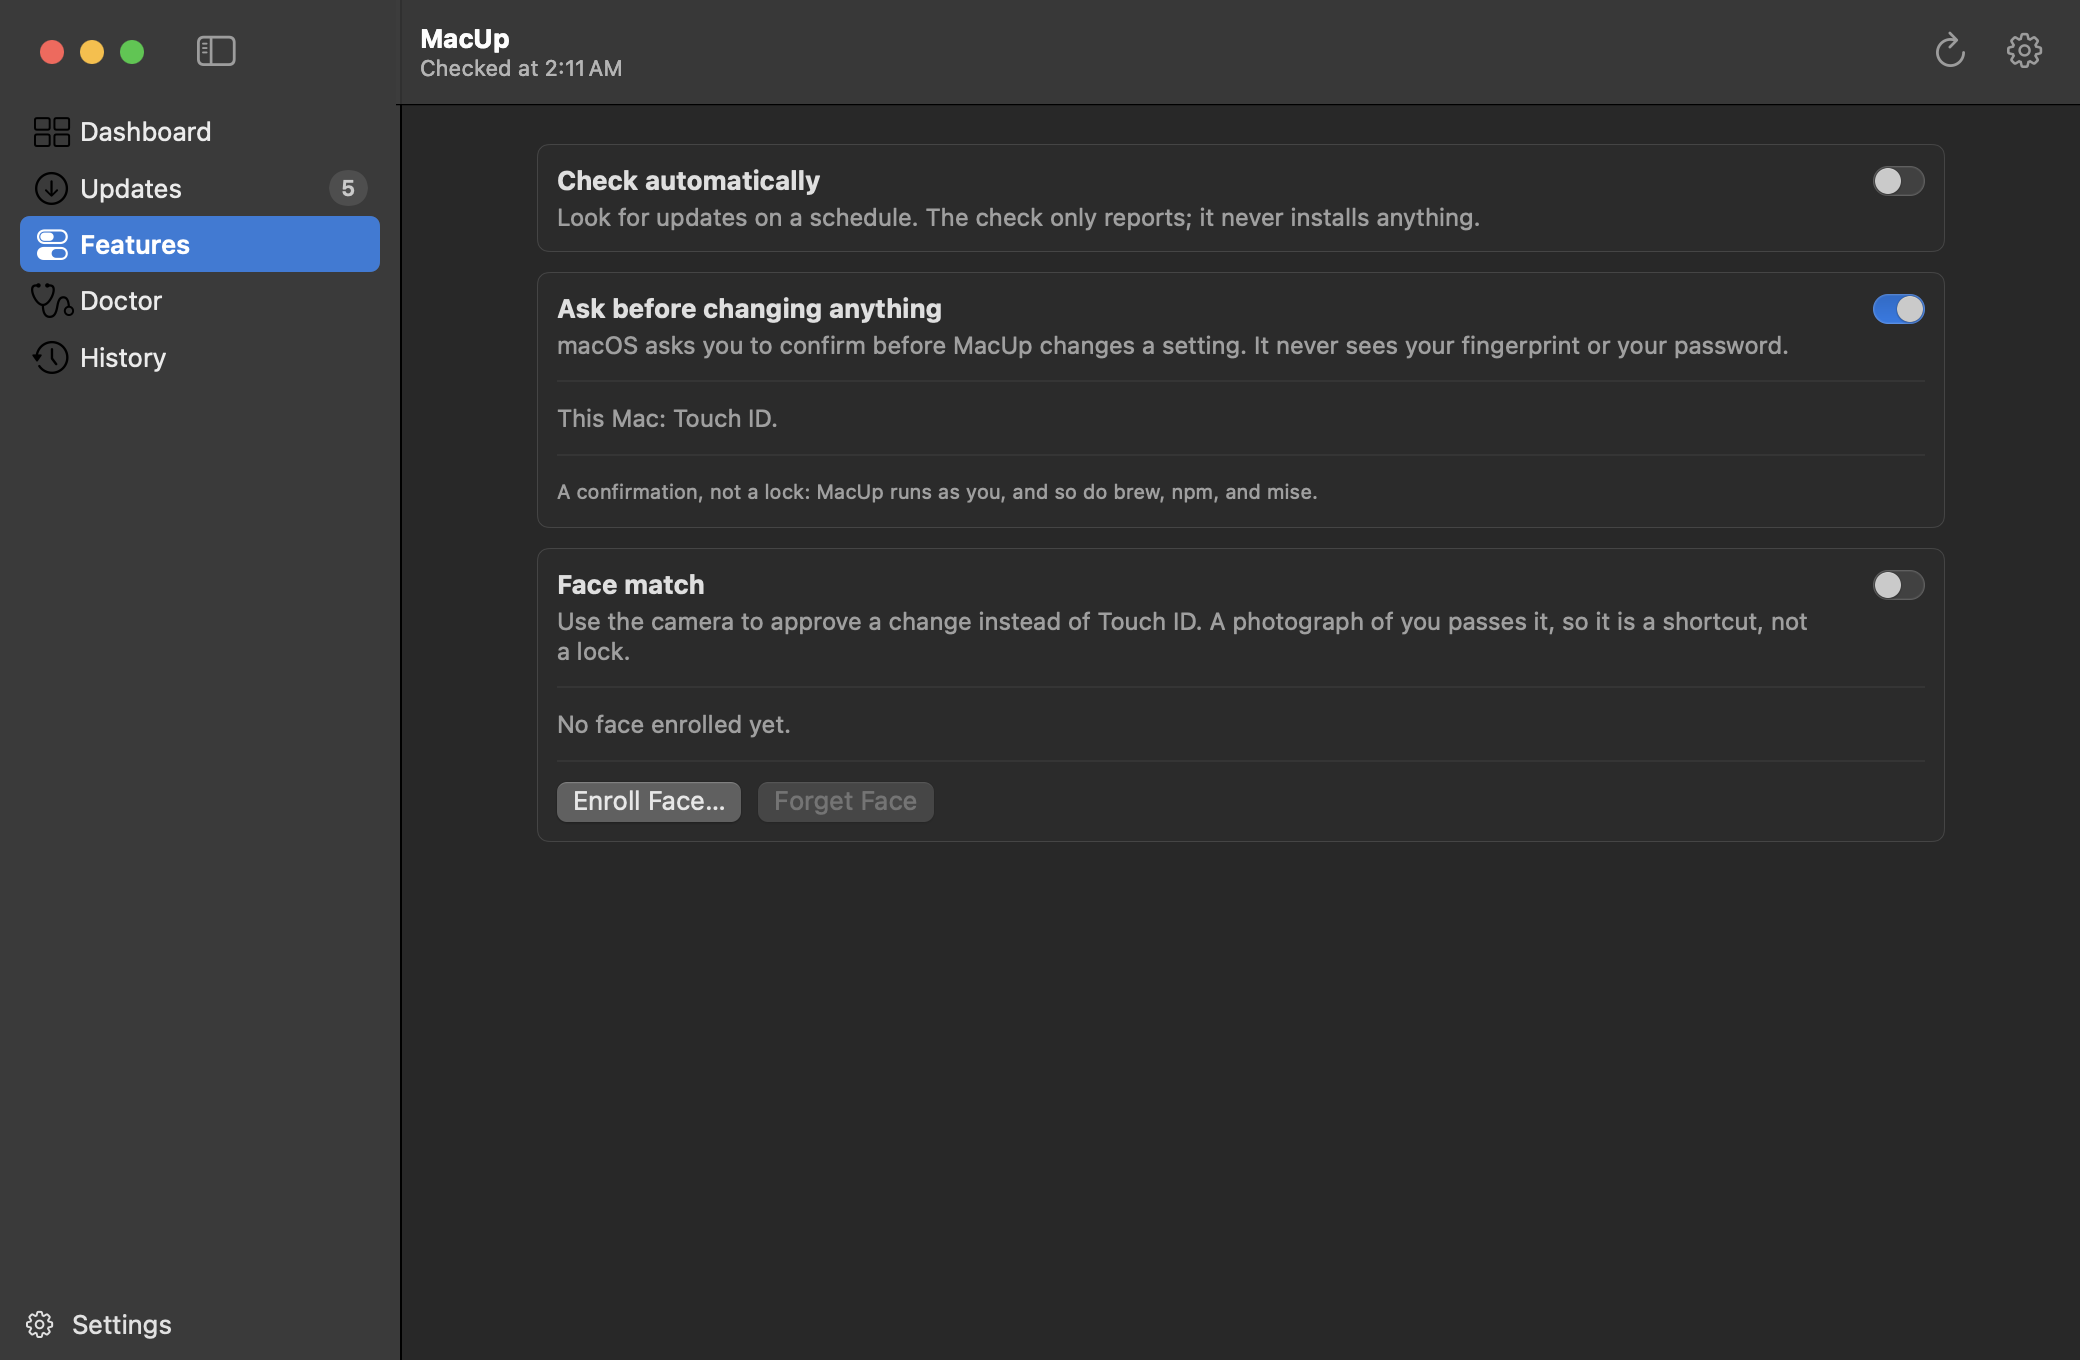
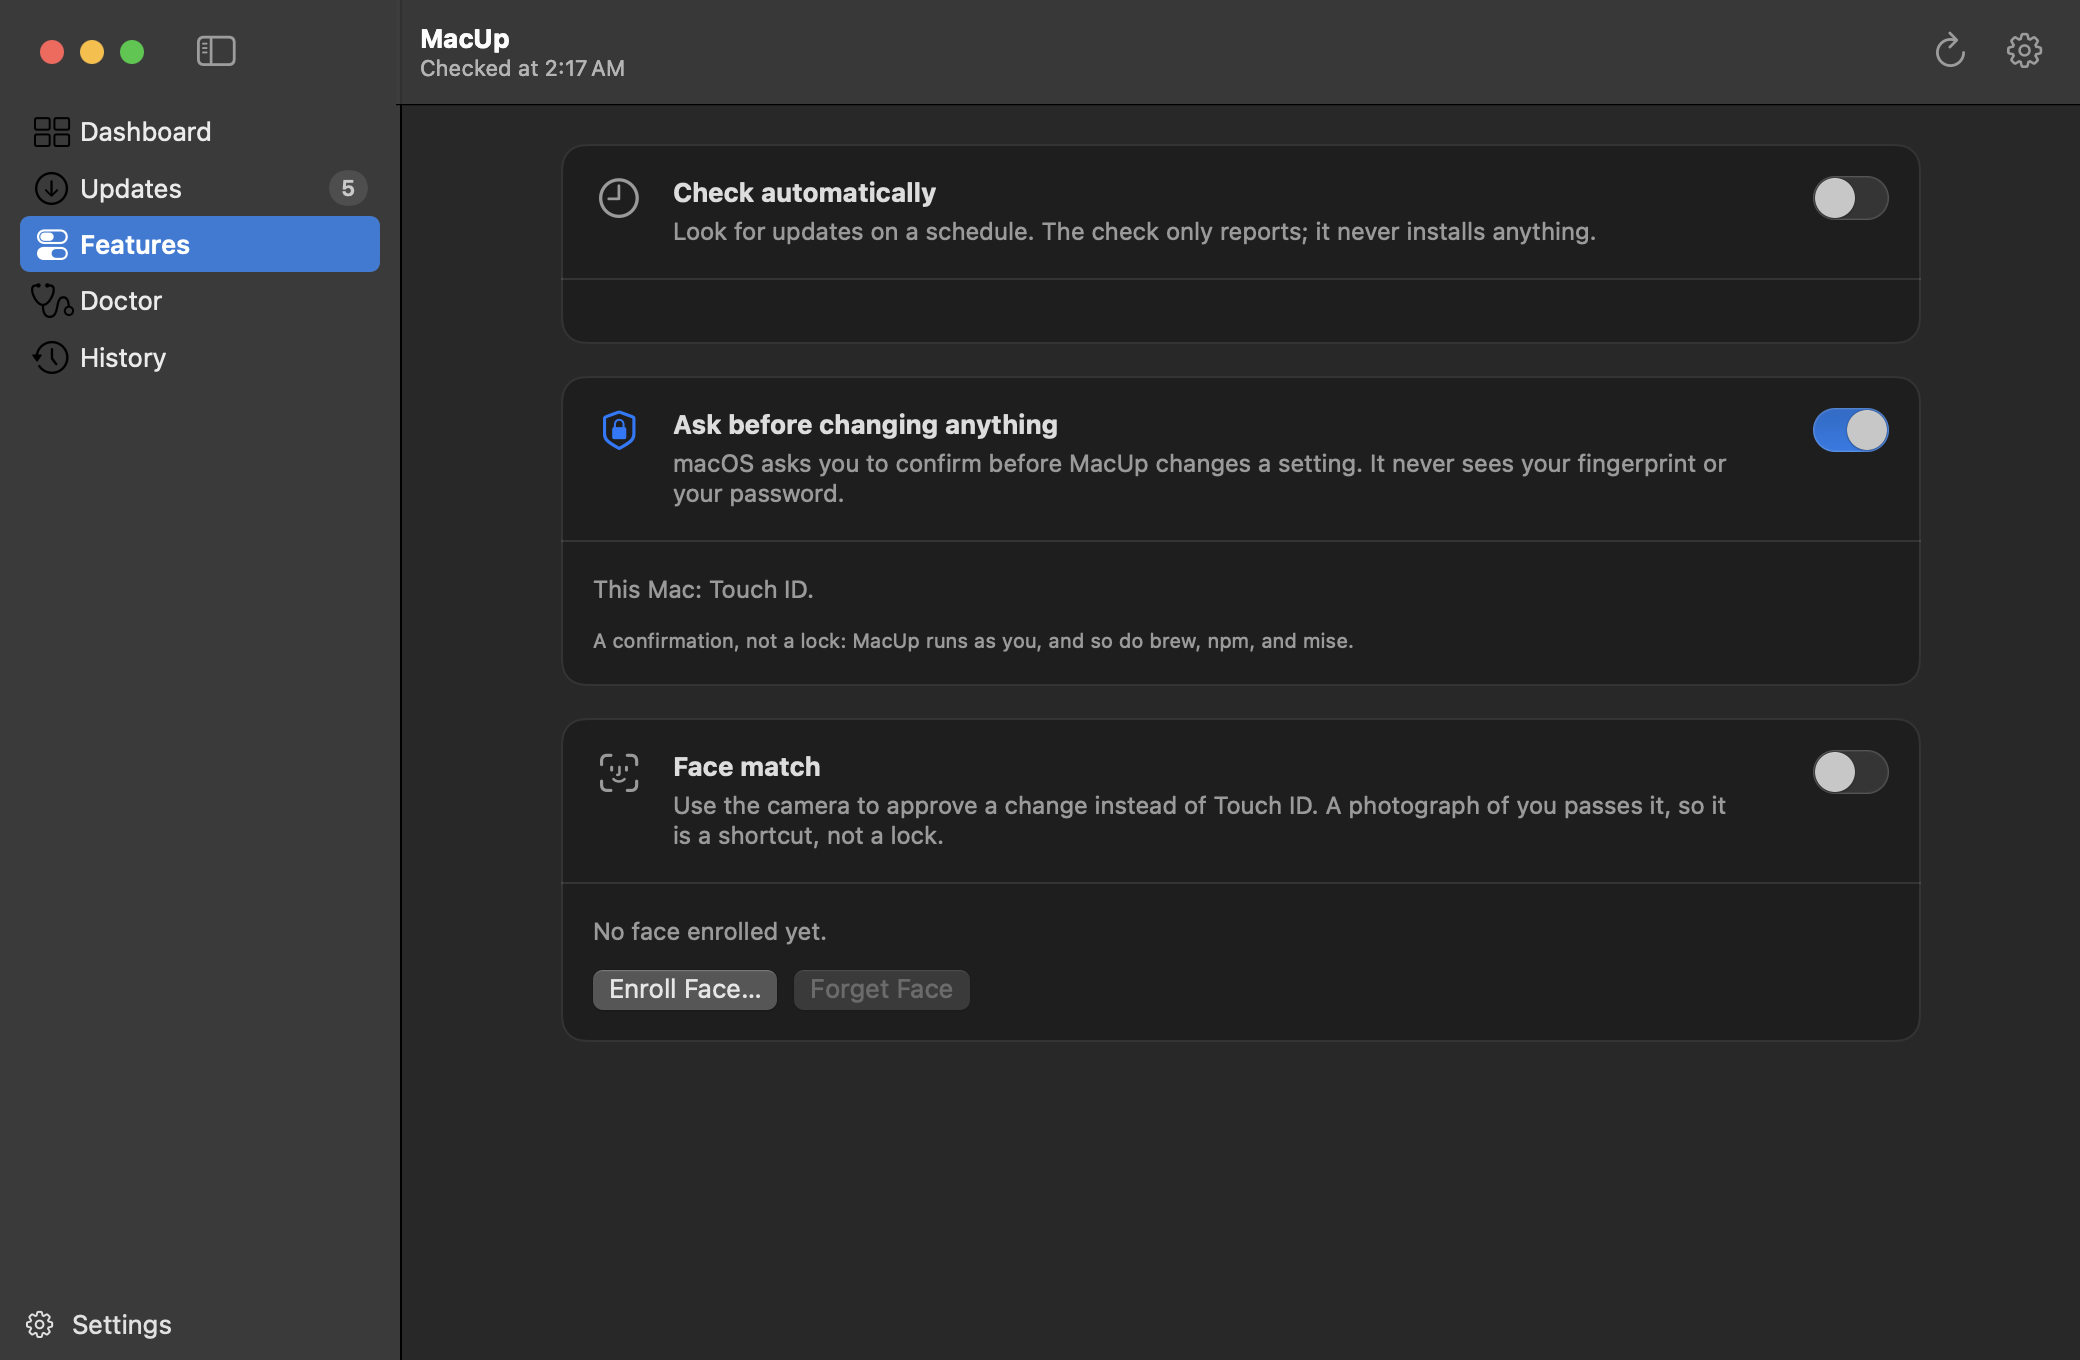
Make each feature a card you can read at a glance
The features screen was a grouped form, so a feature's description, its
switch, and its settings were three form rows that happened to sit near each
other. Each feature is now one card: a symbol, the title, a sentence saying
what it does, and the switch, all on the same line of sight, with the
settings below a divider and only when the feature is on.

The schedule controls moved onto one row rather than three stacked pickers,
which is what they are: one sentence about when to check.

Site screenshots re-captured.

diff --git a/Apps/MacUpApp/MacUpApp/Features/Features/FeaturesView.swift b/Apps/MacUpApp/MacUpApp/Features/Features/FeaturesView.swift
@@ -9,12 +9,16 @@ struct FeaturesView: View {
     @Environment(AppModel.self) private var model
 
     var body: some View {
-        Form {
-            AutomaticChecksFeature()
-            ApprovalFeature()
-            FaceMatchFeature()
+        ScrollView {
+            VStack(spacing: 16) {
+                AutomaticChecksFeature()
+                ApprovalFeature()
+                FaceMatchFeature()
+            }
+            .padding(20)
+            .frame(maxWidth: 720, alignment: .leading)
+            .frame(maxWidth: .infinity)
         }
-        .formStyle(.grouped)
         .task {
             model.loadConfiguration()
             model.loadFaceEnrollment()
@@ -23,8 +27,12 @@ struct FeaturesView: View {
     }
 }
 
-/// A feature row: what it is, whether it is on, and what it is doing.
-private struct FeatureRow<Detail: View>: View {
+/// One feature: what it is, a switch, and its settings once it is on.
+///
+/// A card rather than a form section, so the description sits with the thing
+/// it describes and the settings are visibly part of the same feature.
+private struct FeatureCard<Detail: View>: View {
+    let symbol: String
     let title: String
     let summary: String
     @Binding var isOn: Bool
@@ -33,21 +41,52 @@ private struct FeatureRow<Detail: View>: View {
     @ViewBuilder var detail: Detail
 
     var body: some View {
-        Section {
-            Toggle(isOn: $isOn) {
-                VStack(alignment: .leading, spacing: 3) {
-                    Text(title).font(.headline)
-                    Text(summary).font(.callout).foregroundStyle(.secondary)
-                }
-            }
-            .disabled(isBusy)
+        VStack(alignment: .leading, spacing: 0) {
+            HStack(alignment: .top, spacing: 14) {
+                Image(systemName: symbol)
+                    .font(.system(size: 20))
+                    .foregroundStyle(isOn ? AnyShapeStyle(.tint) : AnyShapeStyle(.secondary))
+                    .frame(width: 26, height: 22)
+                    .accessibilityHidden(true)
 
-            if let state {
-                Text(state).font(.callout).foregroundStyle(.secondary)
+                VStack(alignment: .leading, spacing: 4) {
+                    Text(title).font(.headline)
+                    Text(summary)
+                        .font(.callout)
+                        .foregroundStyle(.secondary)
+                        .fixedSize(horizontal: false, vertical: true)
+                }
+
+                Spacer(minLength: 12)
+
+                Toggle(title, isOn: $isOn)
+                    .labelsHidden()
+                    .toggleStyle(.switch)
+                    .disabled(isBusy)
+                    .accessibilityLabel(title)
             }
-            detail
+            .padding(16)
+
+            if state != nil || hasDetail {
+                Divider()
+                VStack(alignment: .leading, spacing: 12) {
+                    if let state {
+                        Text(state)
+                            .font(.callout)
+                            .foregroundStyle(.secondary)
+                            .fixedSize(horizontal: false, vertical: true)
+                    }
+                    detail
+                }
+                .padding(16)
+                .frame(maxWidth: .infinity, alignment: .leading)
+            }
         }
+        .background(Color(nsColor: .controlBackgroundColor), in: RoundedRectangle(cornerRadius: 12))
+        .overlay(RoundedRectangle(cornerRadius: 12).strokeBorder(.separator))
     }
+
+    private var hasDetail: Bool { !(Detail.self == EmptyView.self) }
 }
 
 // MARK: - Automatic checks
@@ -58,7 +97,8 @@ private struct AutomaticChecksFeature: View {
     @State private var loaded = false
 
     var body: some View {
-        FeatureRow(
+        FeatureCard(
+            symbol: "clock",
             title: "Check automatically",
             summary: "Look for updates on a schedule. The check only reports; it never installs anything.",
             isOn: enabled,
@@ -66,18 +106,23 @@ private struct AutomaticChecksFeature: View {
             state: state
         ) {
             if draft.enabled {
-                Picker("How often", selection: $draft.frequency) {
-                    Text("Daily").tag(MacUpConfiguration.ScheduleSettings.Frequency.daily)
-                    Text("Weekly").tag(MacUpConfiguration.ScheduleSettings.Frequency.weekly)
-                }
-                if draft.frequency == .weekly {
-                    Picker("Day", selection: weekday) {
-                        ForEach(MacUpConfiguration.ScheduleSettings.Weekday.allCases, id: \.self) { day in
-                            Text(day.rawValue.capitalizedFirst).tag(day)
-                        }
+                HStack(spacing: 20) {
+                    Picker("How often", selection: $draft.frequency) {
+                        Text("Daily").tag(MacUpConfiguration.ScheduleSettings.Frequency.daily)
+                        Text("Weekly").tag(MacUpConfiguration.ScheduleSettings.Frequency.weekly)
                     }
+                    .fixedSize()
+                    if draft.frequency == .weekly {
+                        Picker("Day", selection: weekday) {
+                            ForEach(MacUpConfiguration.ScheduleSettings.Weekday.allCases, id: \.self) { day in
+                                Text(day.rawValue.capitalizedFirst).tag(day)
+                            }
+                        }
+                        .fixedSize()
+                    }
+                    DatePicker("Time", selection: time, displayedComponents: .hourAndMinute)
+                        .fixedSize()
                 }
-                DatePicker("Time", selection: time, displayedComponents: .hourAndMinute)
                 if hasUnsavedChanges {
                     Button("Apply Changes") { Task { await model.applySchedule(draft) } }
                         .disabled(model.isChangingSchedule)
@@ -151,7 +196,8 @@ private struct ApprovalFeature: View {
     @Environment(AppModel.self) private var model
 
     var body: some View {
-        FeatureRow(
+        FeatureCard(
+            symbol: "lock.shield",
             title: "Ask before changing anything",
             summary: "macOS asks you to confirm before MacUp changes a setting. It never sees your fingerprint or your password.",
             isOn: enabled,
@@ -185,7 +231,8 @@ private struct FaceMatchFeature: View {
     @Environment(AppModel.self) private var model
 
     var body: some View {
-        FeatureRow(
+        FeatureCard(
+            symbol: "faceid",
             title: "Face match",
             summary: "Use the camera to approve a change instead of Touch ID. A photograph of you passes it, so it is a shortcut, not a lock.",
             isOn: enabled,
